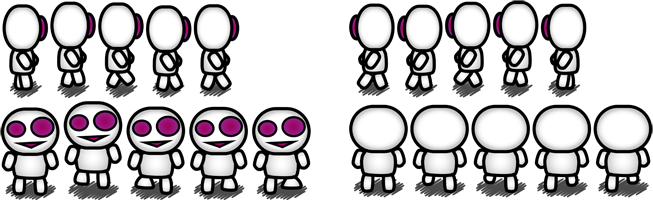
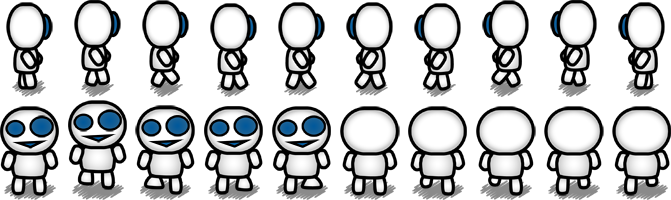
player animation

diff --git a/src/entities/Player.java b/src/entities/Player.java
@@ -24,7 +24,7 @@ public class Player extends Entity {
 	private int speed;
 	private KeySettings keys;
 	private Image[][] facings;
-	private int facing = 0;
+	private int facing = 0, facing1 = 1, drawdelay = 0;
 	public PointManager pm = new PointManager();
 
 	/**
@@ -34,11 +34,11 @@ public class Player extends Entity {
 
 	public Player(int x, int y) {
 		super(x + 1, y + 1);
-		this.facings = Sprite.load("bomberman.png", 55, 90);
-		this.width = (55 / 2);
-		this.height = (90 / 2);
+		this.facings = Sprite.load("player1.png", 67, 100);
+		this.width = (67 / 2);
+		this.height = (100 / 2);
 		this.box = new Box(this.x, this.y, (int) this.width, (int) this.height);
-
+		this.drawdelay = 7;
 		this.speed = 10;
 	}
 
@@ -48,8 +48,8 @@ public class Player extends Entity {
 
 	@Override
 	public void draw(Graphics g) {
-		g.drawImage((this.facings[this.facing][0]).image, this.x, this.y,
-				(int) this.width, (int) this.height, null);
+		g.drawImage((this.facings[this.facing][this.facing1]).image, this.x,
+				this.y, (int) this.width, (int) this.height, null);
 	}
 
 	/**
@@ -60,11 +60,36 @@ public class Player extends Entity {
 		boolean moved = false;
 
 		/**
-		 * if key "down" is pressed
+		 * if key "up" is pressed
 		 */
 		if (this.keys.up.down) {
 			this.y = this.y - this.speed;
-			this.facing = 1;
+			this.facing1 = 1;
+			if (this.drawdelay <= 0) {
+				this.drawdelay = 7;
+			} else if (this.drawdelay <= 1) {
+				this.facing = 5;
+				this.drawdelay--;
+			} else if (this.drawdelay <= 2) {
+				this.facing = 9;
+				this.drawdelay--;
+			} else if (this.drawdelay <= 3) {
+				this.facing = 8;
+				this.drawdelay--;
+			} else if (this.drawdelay <= 4) {
+				this.facing = 5;
+				this.drawdelay--;
+			} else if (this.drawdelay <= 5) {
+				this.facing = 7;
+				this.drawdelay--;
+			} else if (this.drawdelay <= 6) {
+				this.facing = 6;
+				this.drawdelay--;
+			} else {
+				this.drawdelay--;
+				this.facing = 5;
+
+			}
 			moved = true;
 		}
 
@@ -74,7 +99,32 @@ public class Player extends Entity {
 
 		if (this.keys.down.down) {
 			this.y = this.y + this.speed;
-			this.facing = 0;
+			this.facing1 = 1;
+			if (this.drawdelay <= 0) {
+				this.drawdelay = 7;
+			} else if (this.drawdelay <= 1) {
+				this.facing = 0;
+				this.drawdelay--;
+			} else if (this.drawdelay <= 2) {
+				this.facing = 4;
+				this.drawdelay--;
+			} else if (this.drawdelay <= 3) {
+				this.facing = 3;
+				this.drawdelay--;
+			} else if (this.drawdelay <= 4) {
+				this.facing = 0;
+				this.drawdelay--;
+			} else if (this.drawdelay <= 5) {
+				this.facing = 2;
+				this.drawdelay--;
+			} else if (this.drawdelay <= 6) {
+				this.facing = 1;
+				this.drawdelay--;
+			} else {
+				this.drawdelay--;
+				this.facing = 0;
+
+			}
 			moved = true;
 		}
 
@@ -83,7 +133,32 @@ public class Player extends Entity {
 		 */
 		if (this.keys.left.down) {
 			this.x = this.x - this.speed;
-			this.facing = 2;
+			this.facing1 = 0;
+			if (this.drawdelay <= 0) {
+				this.drawdelay = 7;
+			} else if (this.drawdelay <= 1) {
+				this.facing = 5;
+				this.drawdelay--;
+			} else if (this.drawdelay <= 2) {
+				this.facing = 9;
+				this.drawdelay--;
+			} else if (this.drawdelay <= 3) {
+				this.facing = 8;
+				this.drawdelay--;
+			} else if (this.drawdelay <= 4) {
+				this.facing = 5;
+				this.drawdelay--;
+			} else if (this.drawdelay <= 5) {
+				this.facing = 7;
+				this.drawdelay--;
+			} else if (this.drawdelay <= 6) {
+				this.facing = 6;
+				this.drawdelay--;
+			} else {
+				this.drawdelay--;
+				this.facing = 5;
+
+			}
 			moved = true;
 		}
 
@@ -92,7 +167,32 @@ public class Player extends Entity {
 		 */
 		if (this.keys.right.down) {
 			this.x = this.x + this.speed;
-			this.facing = 3;
+			this.facing1 = 0;
+			if (this.drawdelay <= 0) {
+				this.drawdelay = 7;
+			} else if (this.drawdelay <= 1) {
+				this.facing = 0;
+				this.drawdelay--;
+			} else if (this.drawdelay <= 2) {
+				this.facing = 4;
+				this.drawdelay--;
+			} else if (this.drawdelay <= 3) {
+				this.facing = 3;
+				this.drawdelay--;
+			} else if (this.drawdelay <= 4) {
+				this.facing = 0;
+				this.drawdelay--;
+			} else if (this.drawdelay <= 5) {
+				this.facing = 2;
+				this.drawdelay--;
+			} else if (this.drawdelay <= 6) {
+				this.facing = 1;
+				this.drawdelay--;
+			} else {
+				this.drawdelay--;
+				this.facing = 0;
+
+			}
 			moved = true;
 		}
 
@@ -101,6 +201,7 @@ public class Player extends Entity {
 		 */
 		if (moved == false) {
 			this.facing = 0;
+			this.facing1 = 1;
 		}
 
 		this.box.update(this.x, this.y);
